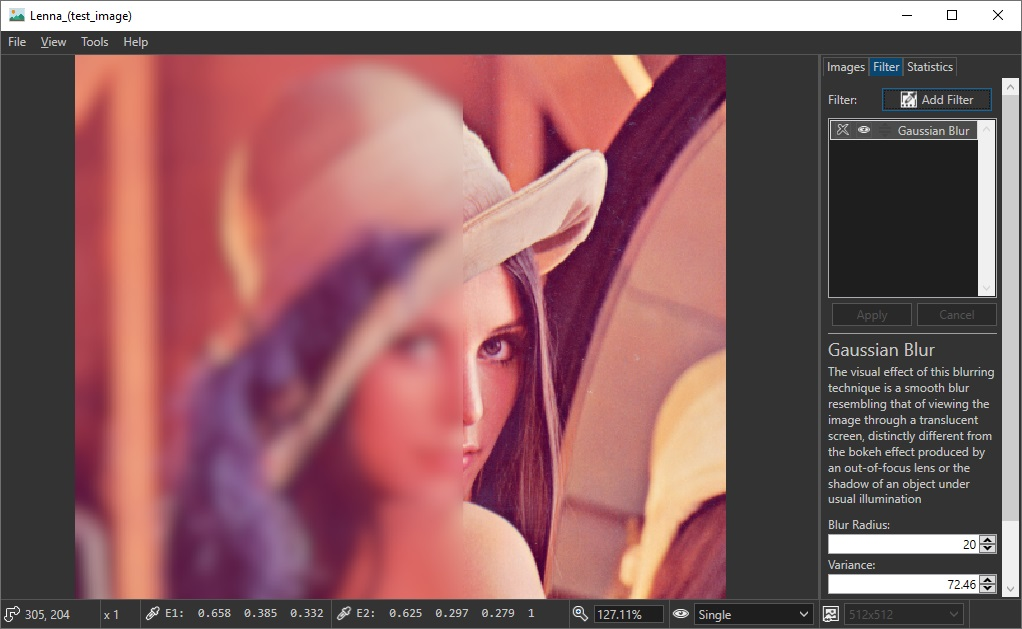
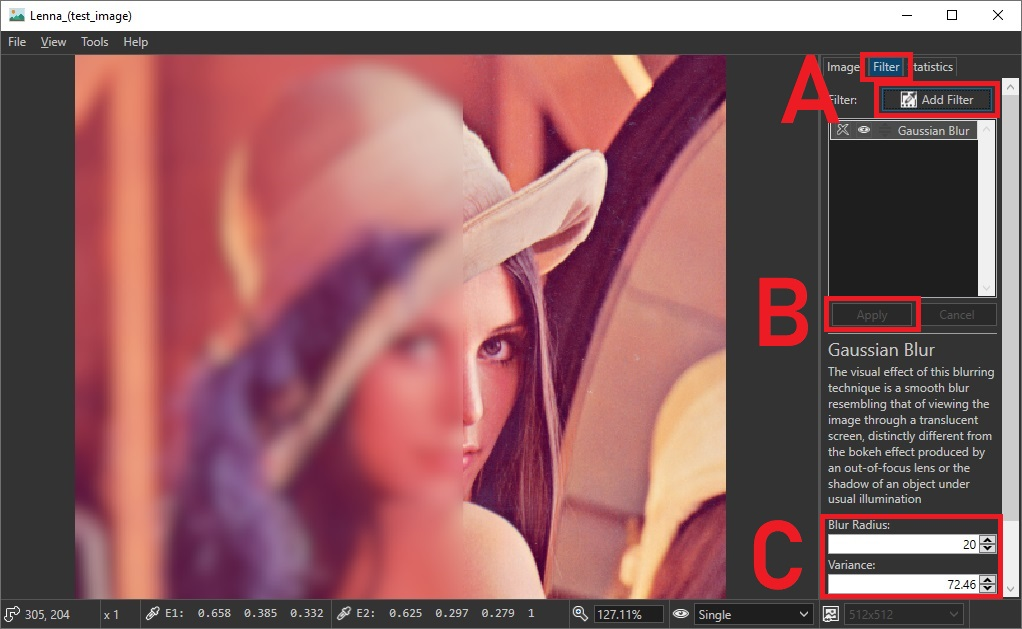
began getting started guide

Changed region(s): [[0.7583, 0.0604, 1.0, 0.2114], [0.728, 0.8156, 1.0, 0.9666], [0.728, 0.4229, 0.91, 0.5739]]

diff --git a/Docs/getting_started.md b/Docs/getting_started.md
@@ -1,0 +1,72 @@
+# Getting Started Guide
+
+## Overview
+
+* [Import Images](#compare-images)
+* [Image Equations](#image-equations)
+* [Export](#export)
+* [Filter](#filter)
+* [Statistics](#statistics) (MSE, SSIM)
+* [Videos](#videos)
+* [3D Images](#3d-images)
+
+# Import Images
+
+Images can be imported via File->Import (ctrl+i) in the menu bar or by using drag and drop. 
+The imported images will be displayed on the right side of the editor in the "Images" tab:
+![](img/gs_import.png)
+* A: List of imported images
+* B: Position of the mouse cursor in the image
+* C: Color at the mouse cursors position (default: linear color values from 0.0 to 1.0). If you want to change the display format to 0-255, go to View->PixelDisplay in the menu and select 'byte (sRGB)'
+* D: Zoom level (can be changed with the mouse wheel)
+
+# Compare Images
+
+When you import more than one image, you can compare them side by side in the editor:
+![](img/gs_compare.png)
+* A: Click the 'eye' icon to toggle the visibility of another image equation. This equation will then be displayed on the right side of the cursor. The first equation will be on the left side of the cursor
+* B: Change the image equation to 'I2', 'I3', 'I4' etc. to display a specific image from the import list. Apply the changes by hitting the 'Apply' button (C)
+* D: The pixel colors of the second equation will be displayed next to the pixel colors of the first equation
+
+You can compare up to four images in the image viewer. The position of the first, second, third and fourth image will be: top left, top right, bottom left, bottom right (relative to the cursor).
+You can also fix the comparison position by double-clicking a position inside the image. This can be undone by double-clicking again.
+
+If you work with .hdr files, you can adjust the exposure with the '+' and '-' keys. The current exposure is displayed in the status bar on the bottom (here: 'x1').
+
+# Image Equations
+
+The image equations can be used for per-pixel calculations. In the following example, the difference of two imported images in visualized:
+![](img/gs_equations.png)
+Here, the third equation states 'I0-I1' which subtracts the pixel colors of I1 from I0. Alternatively, you can use 'abs(I0 - I1)' to display the absolute error or '(I0-I1)^2' to display the squared error. For more information and examples on the image equations, please refer to the [Equation Manual](equation.md).
+
+Beware of a few things:
+* Negative values will be displayed as if they were positive if View->DisplayAbsoluteValues is enabled (default).
+* All values will be clamped between 0.0 and 1.0 in the status bar if any of the sRGB display modes are active. The default 'decimal' display mode will show negative numbers.
+
+# Export
+
+Before exporting, make sure that only a single image equation is visible (disable them by hitting the 'eye' symbol).
+Select File->Export in the menu bar to start exporting:
+* 1. Select a destination in the "Save as" dialog. Make sure to select the correct file type in the dropdown (.png .hdr etc.)
+* 2. In the "Export" dialog you can select the desired pixel format and enable cropping if desired. The format specifies which components are saved (R=Red, G=Green, B=Blue, A=Alpha). If you work with a colored image without transparency, RGB8_SRGB should be the correct format. If you work with a grayscale image R8_SRGB can be sufficient. If you work with linear data (like normal maps or height fields) you might want to select a different data type (UNorm, SNorm, UFloat, SFloat). If you are not familiar with the different types of images formats you can refer to the [OpenGL wiki](https://www.khronos.org/opengl/wiki/Image_Format).
+
+If you have made minor changes to the input image and you want to overwrite the image without changing the format, you can select the File->Overwrite from the menu bar.
+
+The File->AnimatedDiff feature can generate an animed image comparison. For this, exactly two images need to be visible:
+![](img/einstein.gif)
+
+# Filter
+
+Filter are HLSL compute shader that can be imported by the ImageViewer. Only a single function needs to be implemented that will be called for each pixel of the image. User defined parameters can be set from within the GUI. Some filter, like the gaussian blur, are already implemented and can be imported via the filter tab:
+![](img/filter.jpg)
+* A: switch to the filter tab and open a filter via 'Add Filter'
+* B: press 'Apply' to apply the changes
+* C: You can change the filter user parameters in the menu below
+
+For more information on how to write your own filter, please refer to the [Filter Manual](filter_manual.md).
+
+# Statistics
+
+# Videos
+
+# 3D Images
